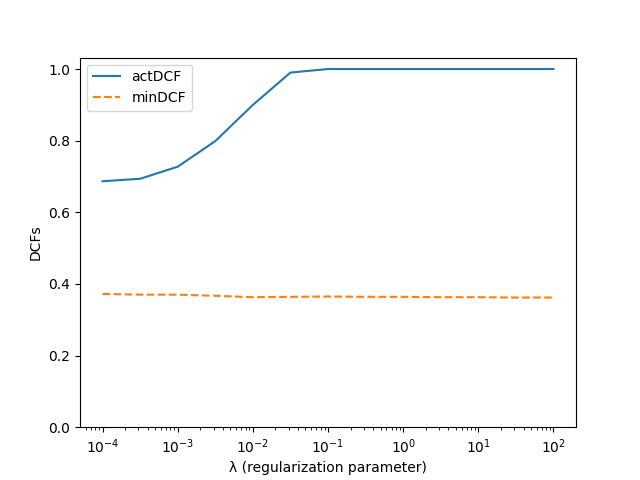
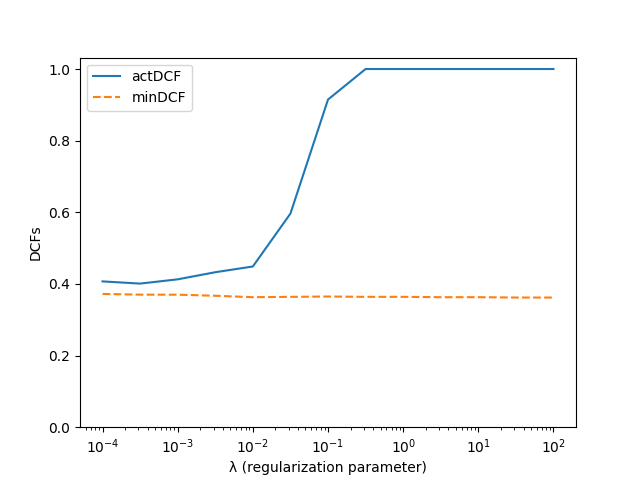
prior-weighted logreg bug fixed

diff --git a/6_project.py b/6_project.py
@@ -53,7 +53,7 @@ def main():
         model.train(train_data, train_labels)
         # classification
         scores = model(val_data)
-        llr_scores = scores - pi_true
+        llr_scores = scores - np.log(pi_true / (1 - pi_true))
         predictions = bayes_pred_llr(llr_scores, pi_true)
         M = confusion_matrix(predictions, val_labels)
         actDCF_score = DCF(M, pi_true)

diff --git a/libs/logistic_regression.py b/libs/logistic_regression.py
@@ -10,6 +10,7 @@ def effective_prior_logodds(X: np.ndarray, y: np.ndarray) -> np.ndarray:
     prior_emp = (X[:, y==1].shape[1]) / X.shape[1]
     return np.log(prior_emp / (1 - prior_emp))
 
+
 def quadratic_expansion(data):
     data_exp = []
 

diff --git a/libs/model_evaluation.py b/libs/model_evaluation.py
@@ -170,6 +170,7 @@ def print_matrix(matrix):
 def print_results(data: list[tuple], headers: list[str]):
     print(tabulate(data, headers=headers, floatfmt='.3f', tablefmt='grid'))
     print()
+
     
 
 
